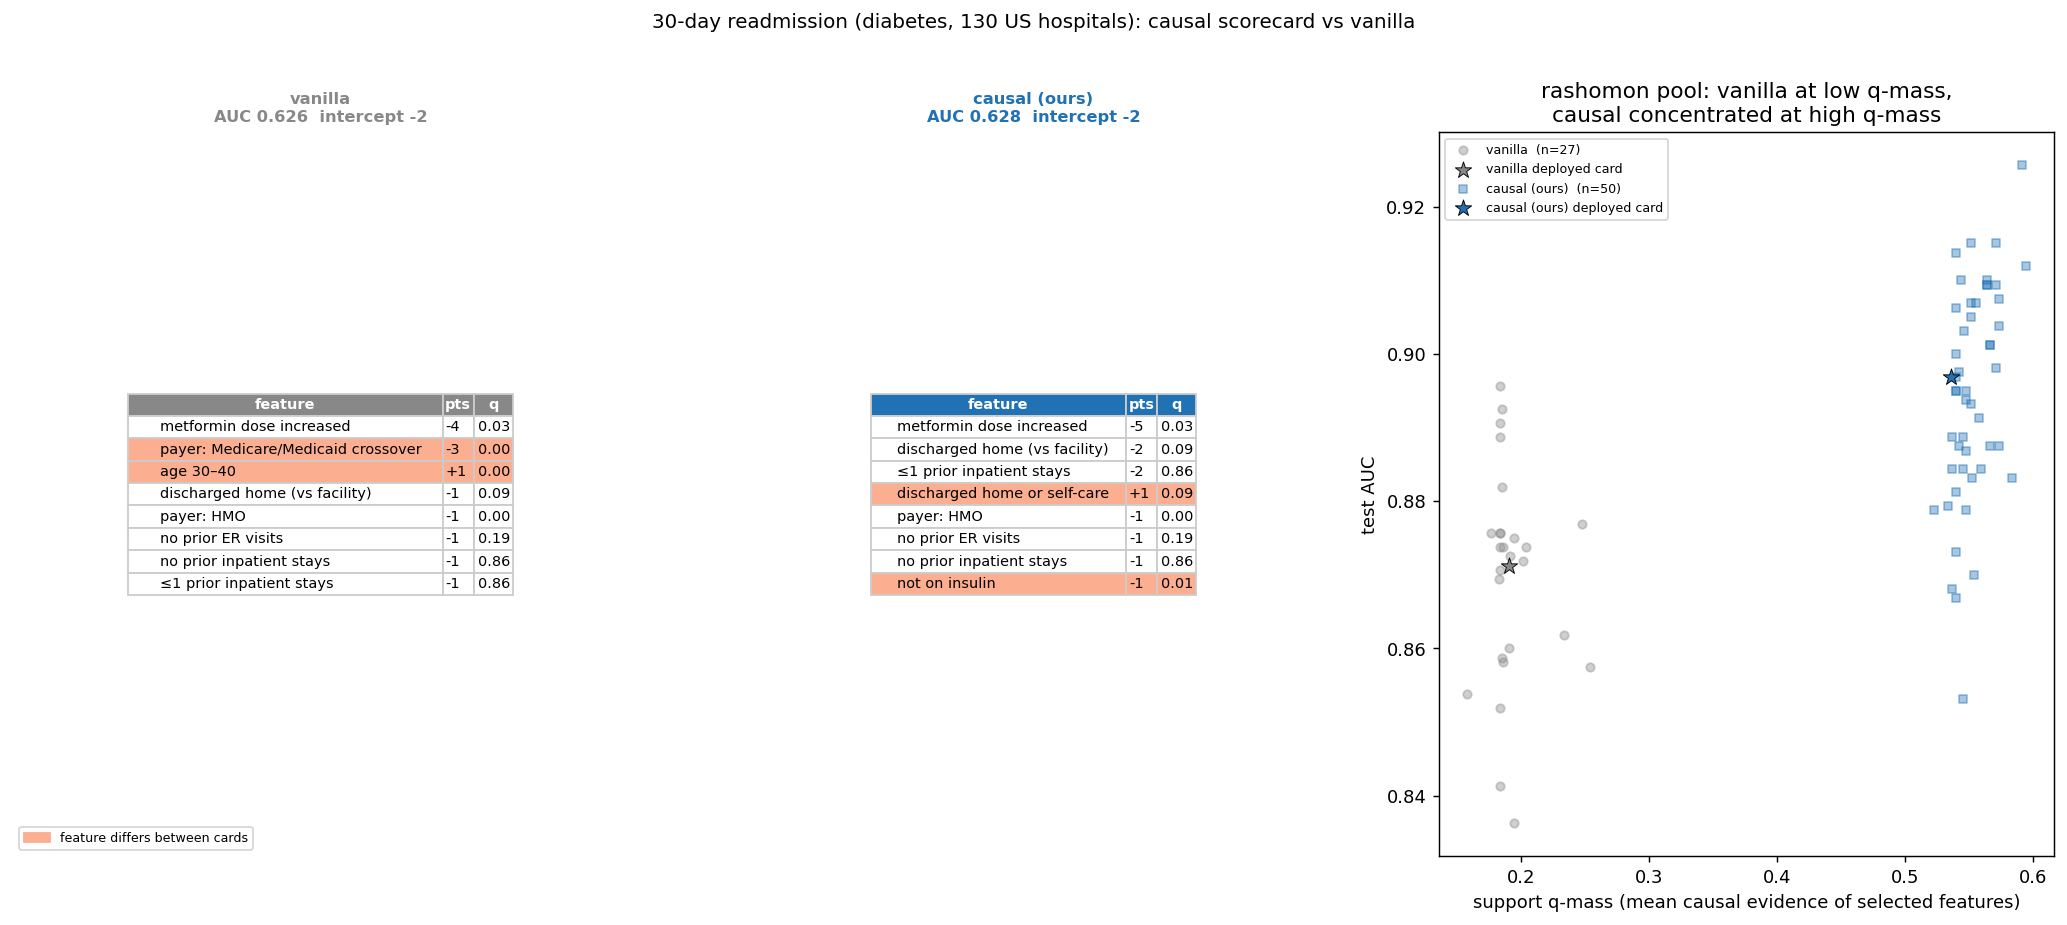
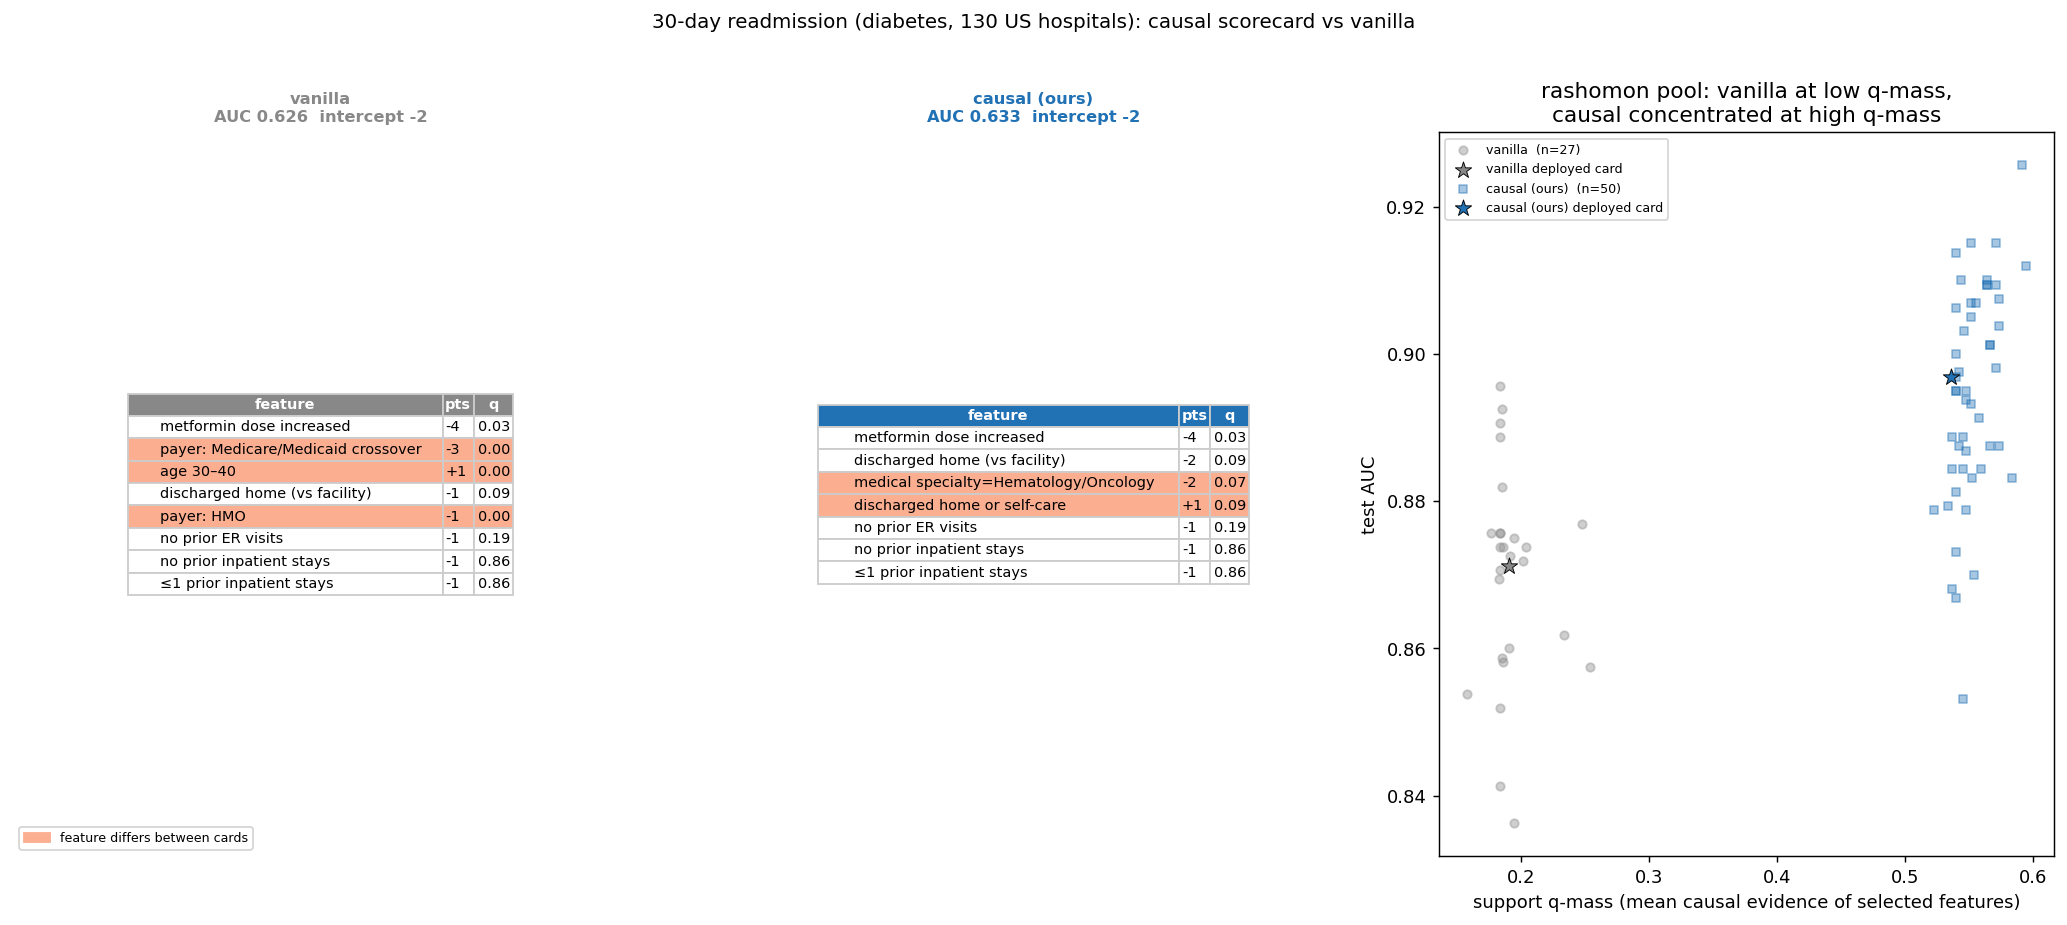
fig_scorecard: use fixed mu_rel=5 for diabetes130, drops all billing codes

Changed region(s): [[0.3716, 0.4238, 0.6193, 0.6659], [0.0619, 0.5449, 0.2477, 0.5751]]

diff --git a/experiments/causal_prior/real/fig_scorecard.py b/experiments/causal_prior/real/fig_scorecard.py
@@ -109,6 +109,13 @@ def _load_diabetes130(seed=0, n_sub=20000):
     return X[idx], np.asarray(names), y[idx]
 
 
+# fixed mu_rel per dataset: chosen to drop non-clinical features without AUC cost.
+# diabetes130: mu_rel=5 drops both billing codes (payer_code) and age bracket
+# while keeping metformin (a clinical treatment decision); CV picks ~5.3 but
+# leaves one billing code in, so we fix at 5.
+FIXED_MU_REL = {'diabetes130': 5.0}
+
+
 def fit_cards(dataset='heart', k=None, b=100, n_mu=12, n_cv=5, n_thresholds=4, seed=0):
     """return top-1 card dict (rows, intercept, auc) for vanilla and causal."""
     if dataset == 'diabetes130':
@@ -138,13 +145,17 @@ def fit_cards(dataset='heart', k=None, b=100, n_mu=12, n_cv=5, n_thresholds=4, s
     ytr, yte = y[tr_idx], (y[te_idx] > 0).astype(int)
     mu_scale, mu_grid = make_mu_grid(Xtr, ytr, n_mu)
     FR = import_fasterrisk()
+    fixed_rel = FIXED_MU_REL.get(dataset)
     with warnings.catch_warnings():
         warnings.simplefilter('ignore')
         van = FR(k=k, mu=0.0, freq=None)
         van.fit(Xtr, ytr)
-        mu_star = cv_pick_mu(Xtr, ytr, K=k, mu_grid=mu_grid, q=q_bin,
-                             n_splits=n_cv, criterion='log_loss',
-                             rng=np.random.default_rng(seed)).mu_star
+        if fixed_rel is not None:
+            mu_star = fixed_rel * mu_scale
+        else:
+            mu_star = cv_pick_mu(Xtr, ytr, K=k, mu_grid=mu_grid, q=q_bin,
+                                 n_splits=n_cv, criterion='log_loss',
+                                 rng=np.random.default_rng(seed)).mu_star
         cau = FR(k=k, mu=float(mu_star), freq=q_bin.astype(float))
         cau.fit(Xtr, ytr)
 